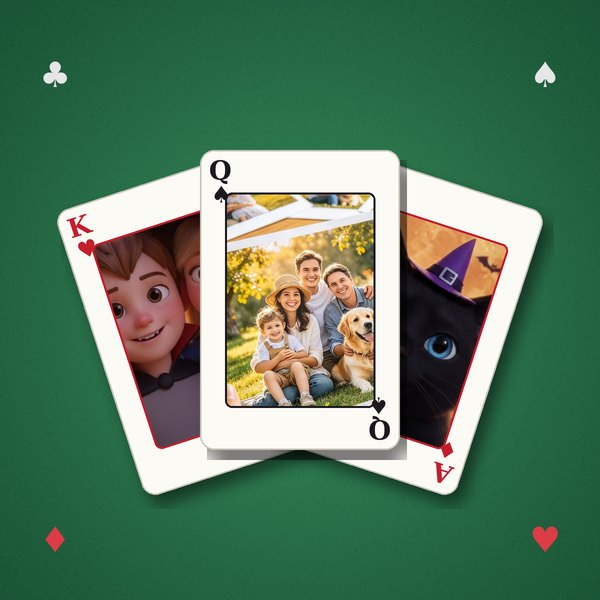
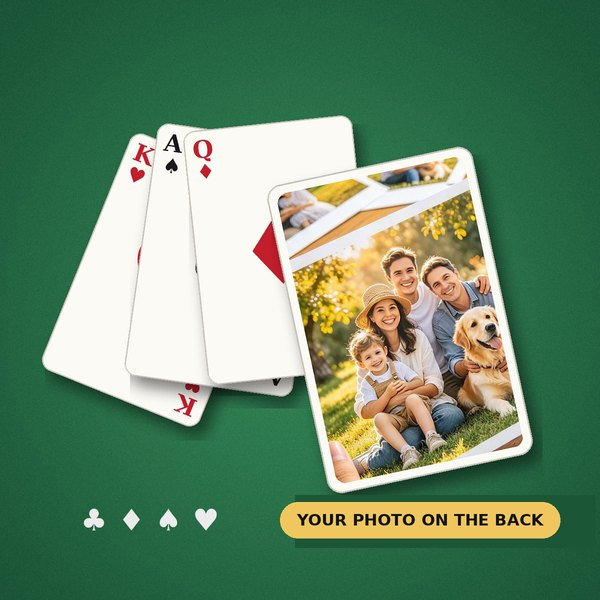
Playing cards: picture and wording make clear the photo is on the back of every card (classic fronts)
Claude-Session: https://claude.ai/code/session_01MtCPF3kmhX7aPXARQ9Ngt1

diff --git a/playing-cards.html b/playing-cards.html
@@ -4,11 +4,11 @@
 <meta charset="UTF-8">
 <meta name="viewport" content="width=device-width, initial-scale=1.0">
 <title>Personalised Photo Playing Cards | ONJJEM</title>
-<meta name="description" content="Your family, pet or cartoon on a full deck of 54 playing cards. £15.99 with free UK delivery.">
+<meta name="description" content="Your family, pet or cartoon printed on the back of a full deck of 54 playing cards. £15.99 with free UK delivery.">
 <link rel="canonical" href="https://onjjem.com/playing-cards">
 <meta property="og:title" content="Personalised Photo Playing Cards | ONJJEM">
-<meta property="og:description" content="Your family, pet or cartoon on a full deck of 54 playing cards. £15.99 with free UK delivery.">
-<meta property="og:image" content="https://onjjem.com/playing-cards-hero.jpg?v=1">
+<meta property="og:description" content="Your family, pet or cartoon printed on the back of a full deck of 54 playing cards. £15.99 with free UK delivery.">
+<meta property="og:image" content="https://onjjem.com/playing-cards-hero.jpg?v=2">
 <script async src="https://www.googletagmanager.com/gtag/js?id=G-3L30Q5L3MW"></script>
 <script>
   window.dataLayer = window.dataLayer || [];
@@ -30,13 +30,13 @@
 <script>
 window.PAGE = {
   kicker: "Games night, made personal",
-  title: "Your family on a deck of playing cards",
-  sub: "A full deck of 54 playing cards with your photo, your pet or a cartoon of the family. A brilliant stocking filler and a gift they'll actually use at every games night.",
-  heroImg: "/playing-cards-hero.jpg?v=1",
+  title: "Your photo on the back of a deck of playing cards",
+  sub: "A full deck of 54 classic playing cards with your photo, your pet or a cartoon of the family printed on the back of every card. A brilliant stocking filler and a gift they'll actually use at every games night.",
+  heroImg: "/playing-cards-hero.jpg?v=2",
   heroAlt: "Personalised playing cards with family photos",
   ticks: [
-    "Full deck of 54 cards: hearts, diamonds, clubs and spades",
-    "Your photo, your pet or a free cartoon preview",
+    "Your picture on the back of every card",
+    "Classic fronts: hearts, diamonds, clubs and spades",
     "Perfect stocking filler for Christmas",
     "Made in the UK with free delivery"
   ],
@@ -46,9 +46,10 @@ window.PAGE = {
   cartoon: true,
   photoHint: "Faces, pets and family photos work best. A clear, bright photo looks great on a card.",
   options: [
-    { sku: "playing-cards", ratio: [2, 3], name: "Deck of 54 photo playing cards", note: "Standard size cards (6×9cm), full colour", price: 15.99, badge: "GREAT GIFT", default: true }
+    { sku: "playing-cards", ratio: [2, 3], name: "Deck of 54 photo playing cards", note: "Your photo on the back of all 54 cards. Classic card faces on the front. 6×9cm", price: 15.99, badge: "GREAT GIFT", default: true }
   ],
   faq: [
+    ["Where does my photo go?", "Your photo goes on the back of every card, so the whole deck shows your picture. The fronts are classic playing cards: hearts, diamonds, clubs and spades, so you can play any game."],
     ["How big are the cards?", "Standard playing card size, 6×9cm, a full deck of 54 cards."],
     ["How long does it take?", "Made to order in the UK in 1–3 working days, then a few days in the post. Order by mid-December for Christmas."],
     ["Is there anything you can't print?", "Please only send pictures you have the right to use. We can't print football club badges, brand logos or cartoon characters from films and TV, or anything offensive."],

diff --git a/index.html b/index.html
@@ -53,7 +53,7 @@
       <a class="lx-card" href="#cat-desk"><span class="lx-name">Desk &amp; On the Go</span><img src="/home/totes.jpg?v=1" alt="" loading="lazy"><span class="lx-what">Mouse mats · Tote bags</span><span class="lx-price">From £14.99</span></a>
       <a class="lx-card" href="/halloween"><span class="lx-name">Halloween</span><img src="/home/halloween.jpg?v=1" alt="" loading="lazy"><span class="lx-what">Cartoon packs, T-shirts &amp; more</span><span class="lx-price">From £5.99</span></a>
       <a class="lx-card" href="#cat-christmas"><span class="lx-name">Christmas</span><img src="/home/christmas.jpg?v=1" alt="" loading="lazy"><span class="lx-what">Sweatshirts · Baubles · Santa sacks</span><span class="lx-price">From £5.99</span></a>
-      <a class="lx-card" href="#cat-games"><span class="lx-name">Games &amp; Puzzles</span><img src="/home/cards.jpg?v=1" alt="" loading="lazy"><span class="lx-what">Playing cards · Jigsaws</span><span class="lx-price">From £15.99</span></a>
+      <a class="lx-card" href="#cat-games"><span class="lx-name">Games &amp; Puzzles</span><img src="/home/cards.jpg?v=2" alt="" loading="lazy"><span class="lx-what">Playing cards · Jigsaws</span><span class="lx-price">From £15.99</span></a>
     </div>
     <div class="lx-more"><a href="#cat-living">See all gifts ↓</a></div>
     <div class="lx-trust"><span>✓ See your design before you pay</span><span>✓ Free UK delivery</span><span>✓ Secure checkout</span><span>✓ Family business, Preston</span></div>
@@ -117,7 +117,7 @@
   <section class="wrap home-sec" id="cat-games">
     <div class="home-sec-head"><h2>🃏 Games &amp; Puzzles</h2><a href="#shop">All rooms ↑</a></div>
     <div class="tiles">
-        <a class="tile" href="/playing-cards"><img src="/home/cards.jpg?v=1" alt="" loading="lazy"><div class="t-body"><h3>Photo playing cards</h3><div class="t-price">£15.99</div></div></a>
+        <a class="tile" href="/playing-cards"><img src="/home/cards.jpg?v=2" alt="" loading="lazy"><div class="t-body"><h3>Playing cards: your photo on the back</h3><div class="t-price">£15.99</div></div></a>
         <a class="tile" href="/kids.html"><img src="/products/kids-jigsaw.jpg" alt="" loading="lazy"><div class="t-body"><h3>Photo jigsaw puzzles</h3><div class="t-price">From £20.99</div></div></a>
     </div>
   </section>
@@ -142,7 +142,7 @@
         <a class="tile" href="/christmas-sweatshirt"><img src="/christmas-sweatshirt-hero.jpg" alt="" loading="lazy"><div class="t-body"><h3>Christmas sweatshirts for the family</h3><div class="t-price">£29.99</div></div></a>
         <a class="tile" href="/christmas"><img src="/christmas-hero.jpg" alt="" loading="lazy"><div class="t-body"><h3>Christmas baubles &amp; Santa sacks</h3><div class="t-price">From £5.99</div></div></a>
         <a class="tile" href="/bauble"><img src="/bauble-hero.jpg" alt="" loading="lazy"><div class="t-body"><h3>Your dog on a Christmas bauble</h3><div class="t-price">From £12.99</div></div></a>
-        <a class="tile" href="/playing-cards"><img src="/home/cards.jpg?v=1" alt="" loading="lazy"><div class="t-body"><h3>Photo playing cards</h3><div class="t-price">£15.99</div></div></a>
+        <a class="tile" href="/playing-cards"><img src="/home/cards.jpg?v=2" alt="" loading="lazy"><div class="t-body"><h3>Playing cards: your photo on the back</h3><div class="t-price">£15.99</div></div></a>
     </div>
   </section>
 

diff --git a/kids.html b/kids.html
@@ -119,7 +119,7 @@ const ITEMS = [
   {
     name: "Custom Playing Cards",
     img: "/products/Cards.png",
-    desc: "Deck of 54 full-colour playing cards, each card feature a different version of your photo. Great for card games, or a deck to keep as a memory.",
+    desc: "Deck of 54 classic playing cards with your photo printed on the back of every card. Great for card games, or a deck to keep as a memory.",
     variants: [
       { sku: "playing-cards", label: "Standard Deck - £15.99" }
     ]
